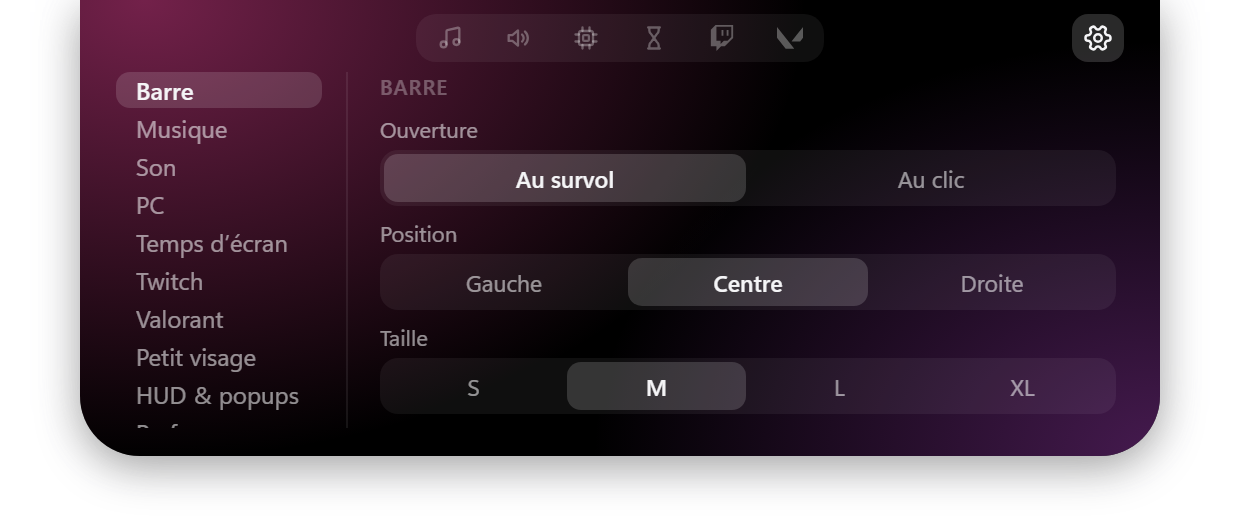
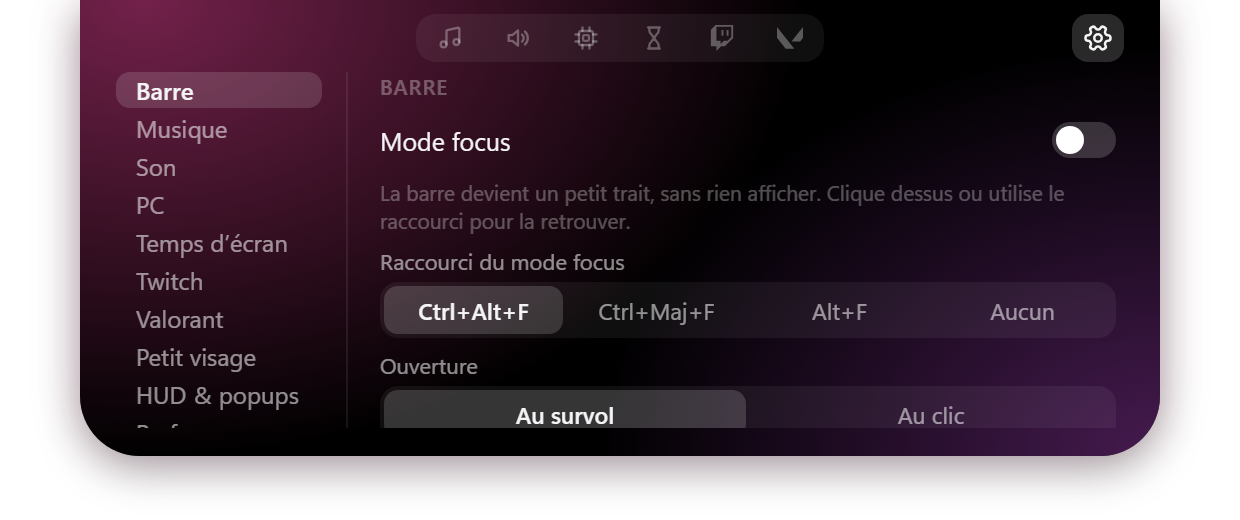
Version 0.5.6 : mode focus, priorité musique, démo et capture des paramètres à jour

diff --git a/demo/app.js b/demo/app.js
@@ -44,6 +44,7 @@ window.lagon.onHover((on) => {
   hovering = on;
   island.classList.toggle('hot', on);
   if (!on) { setOpen(false); return; }
+  if (settings.focusMode) return; // focus: a thin line that never opens (a click brings the bar back)
   if (peekTimer) {
     // the pointer caught a song peek: keep it open
     clearTimeout(peekTimer);
@@ -54,6 +55,7 @@ window.lagon.onHover((on) => {
 });
 
 island.addEventListener('click', () => {
+  if (settings.focusMode) { window.lagon.setSetting('focusMode', false).then(applySettings); return; }
   if (settings.openMode !== 'click' || island.classList.contains('open')) return;
   setPage(userPage, true);
   setOpen(true);
@@ -62,10 +64,12 @@ island.addEventListener('click', () => {
 // Sizes must match style.css (#island, #island.idle, #island.idle.face-mode, --open-w / --open-h).
 let sentSizes = '';
 function sendSizes(idle) {
-  const w = !idle ? 290 : settings.idleFace ? 184 : 132;
+  const focus = !!settings.focusMode;
+  const w = focus ? 64 : !idle ? 290 : settings.idleFace ? 184 : 132;
   const gap = settings.islandAttach === 'floating' ? 8 : 0; // floating: the island starts 8px lower
   const tickerRow = island.classList.contains('ticker-on') ? 22 : 0; // live ticker under the closed island
-  const sizes = { compact: { w, h: 36 + tickerRow + gap }, open: { w: 540, h: 228 + gap } };
+  const h = focus ? 6 : 36 + tickerRow; // keep in sync with #island.focus in style.css
+  const sizes = { compact: { w, h: h + gap }, open: { w: 540, h: 228 + gap } };
   if (JSON.stringify(sizes) === sentSizes) return;
   sentSizes = JSON.stringify(sizes);
   window.lagon.setSizes(sizes);
@@ -73,7 +77,7 @@ function sendSizes(idle) {
 
 // Briefly show the music card when a new song starts.
 function peek() {
-  if (hovering || !settings.peekOnTrack) return;
+  if (hovering || !settings.peekOnTrack || settings.focusMode) return;
   setPage('music', true, false);
   setOpen(true);
   clearTimeout(peekTimer);
@@ -508,7 +512,7 @@ function renderHud(h) {
   island.classList.toggle('muted', !!h.muted);
 }
 function showHud(h, ms = 1800) {
-  if (island.classList.contains('open')) return;
+  if (island.classList.contains('open') || settings.focusMode) return;
   hudKind = h.kind;
   island.classList.add('osd');
   renderHud(h);
@@ -747,7 +751,6 @@ function applySettings(s) {
     b.classList.toggle('on', String(s[b.parentElement.dataset.setting]) === b.dataset.v);
   });
   if (document.activeElement !== pingInput) { pingInput.value = s.pingHost; pingInput.classList.remove('bad'); }
-  if (document.activeElement !== twInput) { twInput.value = s.twitchClientId || ''; twInput.classList.remove('bad'); }
   if (document.activeElement !== vlId) { vlId.value = s.valoRiotId || ''; vlId.classList.remove('bad'); }
 
   document.body.dataset.pos = s.position;
@@ -765,6 +768,9 @@ function applySettings(s) {
   });
   applyWidgets();
   island.classList.toggle('click-mode', s.openMode === 'click');
+  island.classList.toggle('focus', !!s.focusMode);
+  if (s.focusMode) { hideOsd(); if (island.classList.contains('open') && !hovering) setOpen(false); }
+  if (typeof syncTicker === 'function') syncTicker();
   const root = document.documentElement.style;
   root.setProperty('--lyric-size', s.lyricsSize + 'px');
   root.setProperty('--lyric-font', `var(--font-${s.lyricsFont})`);
@@ -1056,22 +1062,6 @@ $('.tw-btn').addEventListener('click', () => {
 });
 setInterval(() => { if (tw.stats && tw.stats.live && page === 'twitch') renderTwitch(); }, 30000); // live duration
 
-// Client ID field (typing needs the keyboard, like the ping field)
-const twInput = $('.twitch-client');
-const CLIENT_RE = /^[A-Za-z0-9]{0,50}$/;
-twInput.addEventListener('pointerdown', () => window.lagon.keyboard(true));
-twInput.addEventListener('input', () => twInput.classList.toggle('bad', !CLIENT_RE.test(twInput.value.trim())));
-twInput.addEventListener('keydown', (e) => {
-  if (e.key === 'Enter') twInput.blur();
-  if (e.key === 'Escape') { twInput.value = settings.twitchClientId || ''; twInput.blur(); }
-});
-twInput.addEventListener('blur', () => {
-  window.lagon.keyboard(false);
-  const v = twInput.value.trim();
-  if (CLIENT_RE.test(v) && v !== (settings.twitchClientId || '')) window.lagon.setSetting('twitchClientId', v).then(applySettings);
-  else { twInput.value = settings.twitchClientId || ''; twInput.classList.remove('bad'); }
-});
-
 // ---------- live ticker ----------
 // While live (and the option is on), a second row under the closed island rolls through the stats,
 // one every 3 s. The island's usual content stays as it is.
@@ -1105,7 +1095,7 @@ function rollTicker() {
 
 function syncTicker() {
   const st = tw.status || {};
-  const on = !!(settings.widgetTwitch && settings.twitchTicker && st.connected && tw.stats && tw.stats.live && !paused);
+  const on = !!(settings.widgetTwitch && settings.twitchTicker && st.connected && tw.stats && tw.stats.live && !paused && !settings.focusMode);
   if (on !== island.classList.contains('ticker-on')) {
     island.classList.toggle('ticker-on', on);
     if (on) { ticker.i = -1; rollTicker(); }

diff --git a/demo/index.html b/demo/index.html
@@ -188,6 +188,12 @@
           <div class="s-panels">
             <div class="s-panel on" data-cat="bar">
               <span class="s-k">Barre</span>
+              <label class="sw-row"><span>Mode focus</span><input type="checkbox" data-setting="focusMode" /><i class="sw"></i></label>
+              <span class="f-hint">La barre devient un petit trait, sans rien afficher. Clique dessus ou utilise le raccourci pour la retrouver.</span>
+              <span class="f-k">Raccourci du mode focus</span>
+              <div class="seg" data-setting="focusHotkey">
+                <button data-v="ctrl+alt+f">Ctrl+Alt+F</button><button data-v="ctrl+shift+f">Ctrl+Maj+F</button><button data-v="alt+f">Alt+F</button><button data-v="off">Aucun</button>
+              </div>
               <span class="f-k">Ouverture</span>
               <div class="seg" data-setting="openMode">
                 <button data-v="hover">Au survol</button><button data-v="click">Au clic</button>
@@ -227,6 +233,8 @@
               <label class="sw-row s-main"><span>Activer la musique</span><input type="checkbox" data-setting="widgetMusic" /><i class="sw"></i></label>
               <span class="f-hint s-main-hint">Éteint : l’onglet est masqué et rien ne tourne en arrière-plan.</span>
               <div class="s-body">
+                <label class="sw-row"><span>Priorité au lecteur de musique</span><input type="checkbox" data-setting="musicPriority" /><i class="sw"></i></label>
+                <span class="f-hint">Spotify, Deezer… passent avant le son du navigateur (YouTube, Twitch…).</span>
                 <label class="sw-row"><span>S’ouvrir à chaque nouveau morceau</span><input type="checkbox" data-setting="peekOnTrack" /><i class="sw"></i></label>
                 <div class="s-sub" data-needs="widgetLyrics">
                   <span class="s-k">Paroles</span>
@@ -298,11 +306,6 @@
                 <span class="f-hint tw-err"></span>
                 <label class="sw-row"><span>Bandeau des stats pendant le live</span><input type="checkbox" data-setting="twitchTicker" /><i class="sw"></i></label>
                 <span class="f-hint">Sous la barre fermée, tes stats défilent une par une tant que tu es en live.</span>
-                <span class="f-k">Client ID (optionnel)</span>
-                <div class="field">
-                  <input type="text" class="twitch-client" spellcheck="false" maxlength="50" placeholder="celui de Lagon (laisser vide)" aria-label="Client ID Twitch" />
-                  <span class="f-hint">Seulement pour utiliser ta propre appli dev.twitch.tv · Entrée pour valider</span>
-                </div>
               </div>
             </div>
 

diff --git a/index.html b/index.html
@@ -42,7 +42,7 @@
         </a>
         <a class="btn ghost" href="#fonctions">Découvrir</a>
       </div>
-      <p class="meta"><span class="dl-version">Version 0.5.4</span> · Windows 10 et 11 · gratuit · 4 Mo</p>
+      <p class="meta"><span class="dl-version">Version 0.5.6</span> · Windows 10 et 11 · gratuit · 4 Mo</p>
     </div>
   </section>
 
@@ -136,7 +136,7 @@
         <span class="n">1</span>
         <div><h3>Télécharge l’installateur</h3><p>Toujours la dernière version. Pas besoin de droits administrateur.</p>
           <a class="btn dl-link" href="#">Télécharger pour Windows</a>
-          <p class="meta"><span class="dl-version">Version 0.5.4</span> · <a class="dl-notes" href="#">Nouveautés</a></p></div>
+          <p class="meta"><span class="dl-version">Version 0.5.6</span> · <a class="dl-notes" href="#">Nouveautés</a></p></div>
       </li>
       <li>
         <span class="n">2</span>

diff --git a/demo/style.css b/demo/style.css
@@ -67,6 +67,11 @@ body[data-pos="right"] #island { left: auto; right: 16px; translate: none; trans
 /* click mode: grow a little under the pointer to show it can be clicked */
 #island.click-mode.hot:not(.open) { scale: 1.06; cursor: pointer; }
 #island.idle { width: 132px; }
+/* focus mode: a thin line, nothing inside (sizes in sync with sendSizes in app.js) */
+#island.focus:not(.open) { width: 64px !important; height: 6px !important; border-radius: 0 0 6px 6px; box-shadow: none; } /* beats the idle / face sizes */
+body[data-attach="floating"] #island.focus:not(.open) { border-radius: 6px; }
+#island.focus:not(.open) > * { opacity: 0; visibility: hidden; transition: none; }
+#island.focus.hot:not(.open) { scale: 1.15; cursor: pointer; }
 #island.osd { width: 290px; }
 #island.playing { box-shadow: 0 6px 22px rgba(0, 0, 0, 0.35), 0 0 26px -6px color-mix(in srgb, var(--accent) 55%, transparent); }
 #island.open {

diff --git a/demo/stub.js b/demo/stub.js
@@ -16,6 +16,7 @@
     faceSleepSeconds: 120, lyricsSize: 16, lyricsFont: 'segoe', pingHost: '1.1.1.1', idleMinutes: 5, islandScale: 100,
     widgetTwitch: true, twitchTicker: true, twitchClientId: '', display: 'primary', openAtLogin: true,
     widgetValorant: true, valoRiotId: 'Lagon#EUW', valoRegion: 'eu', valoPlatform: 'pc',
+    musicPriority: true, focusMode: false, focusHotkey: 'ctrl+alt+f',
   };
 
   // album cover: a gradient drawn here (no real artwork)
